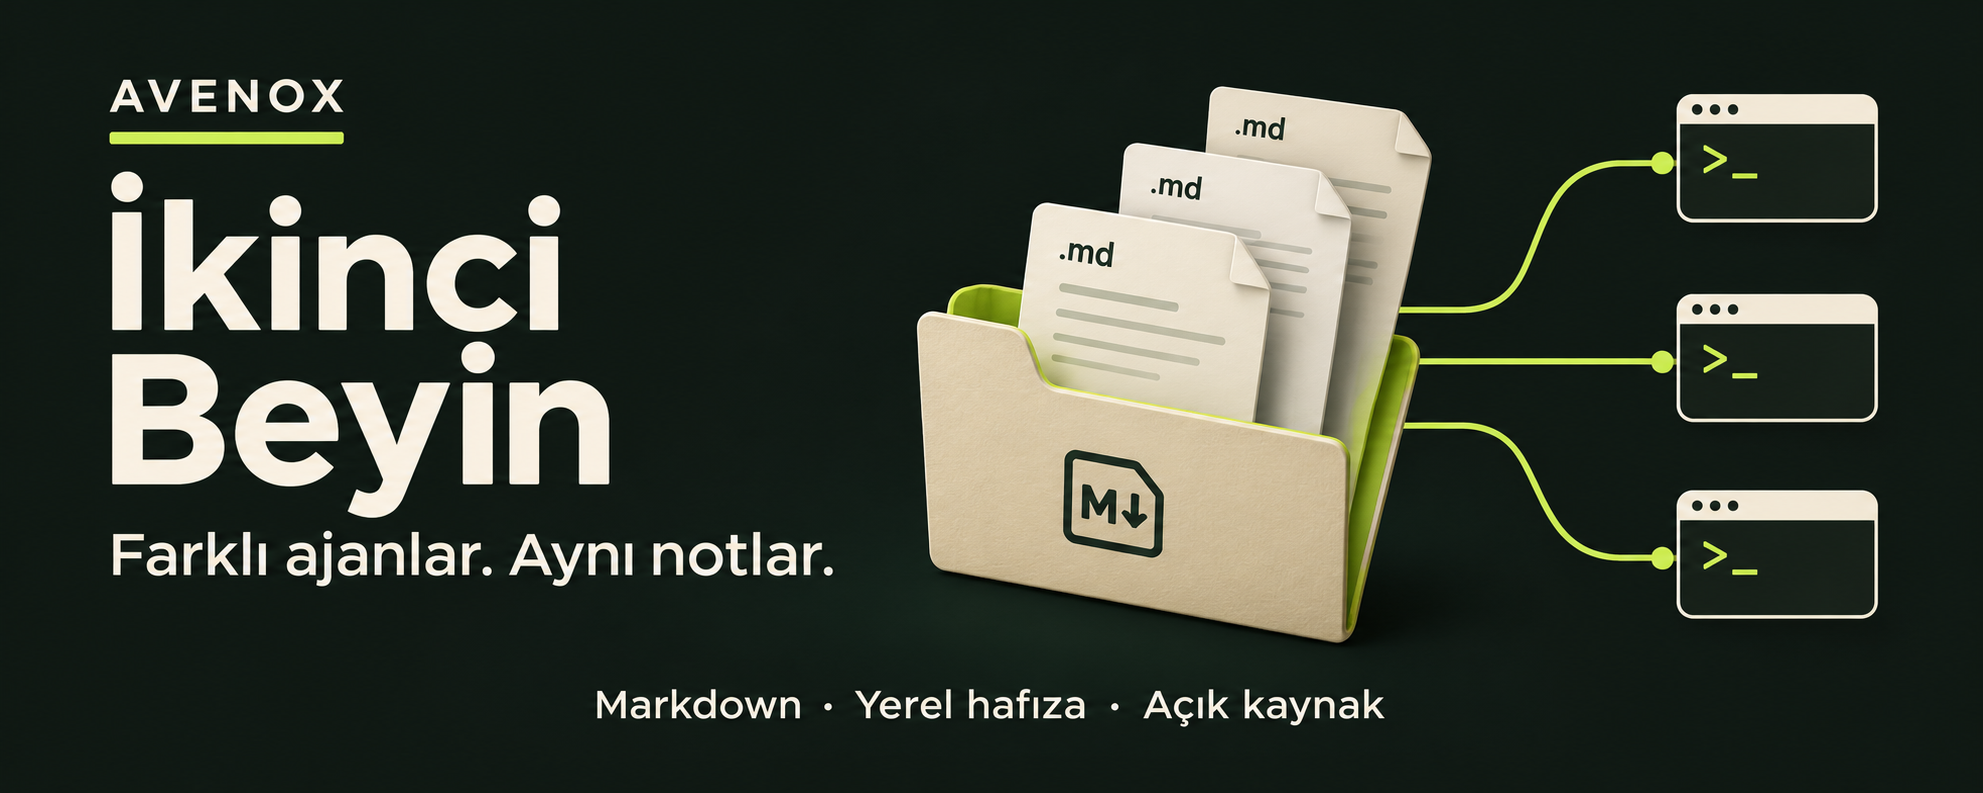
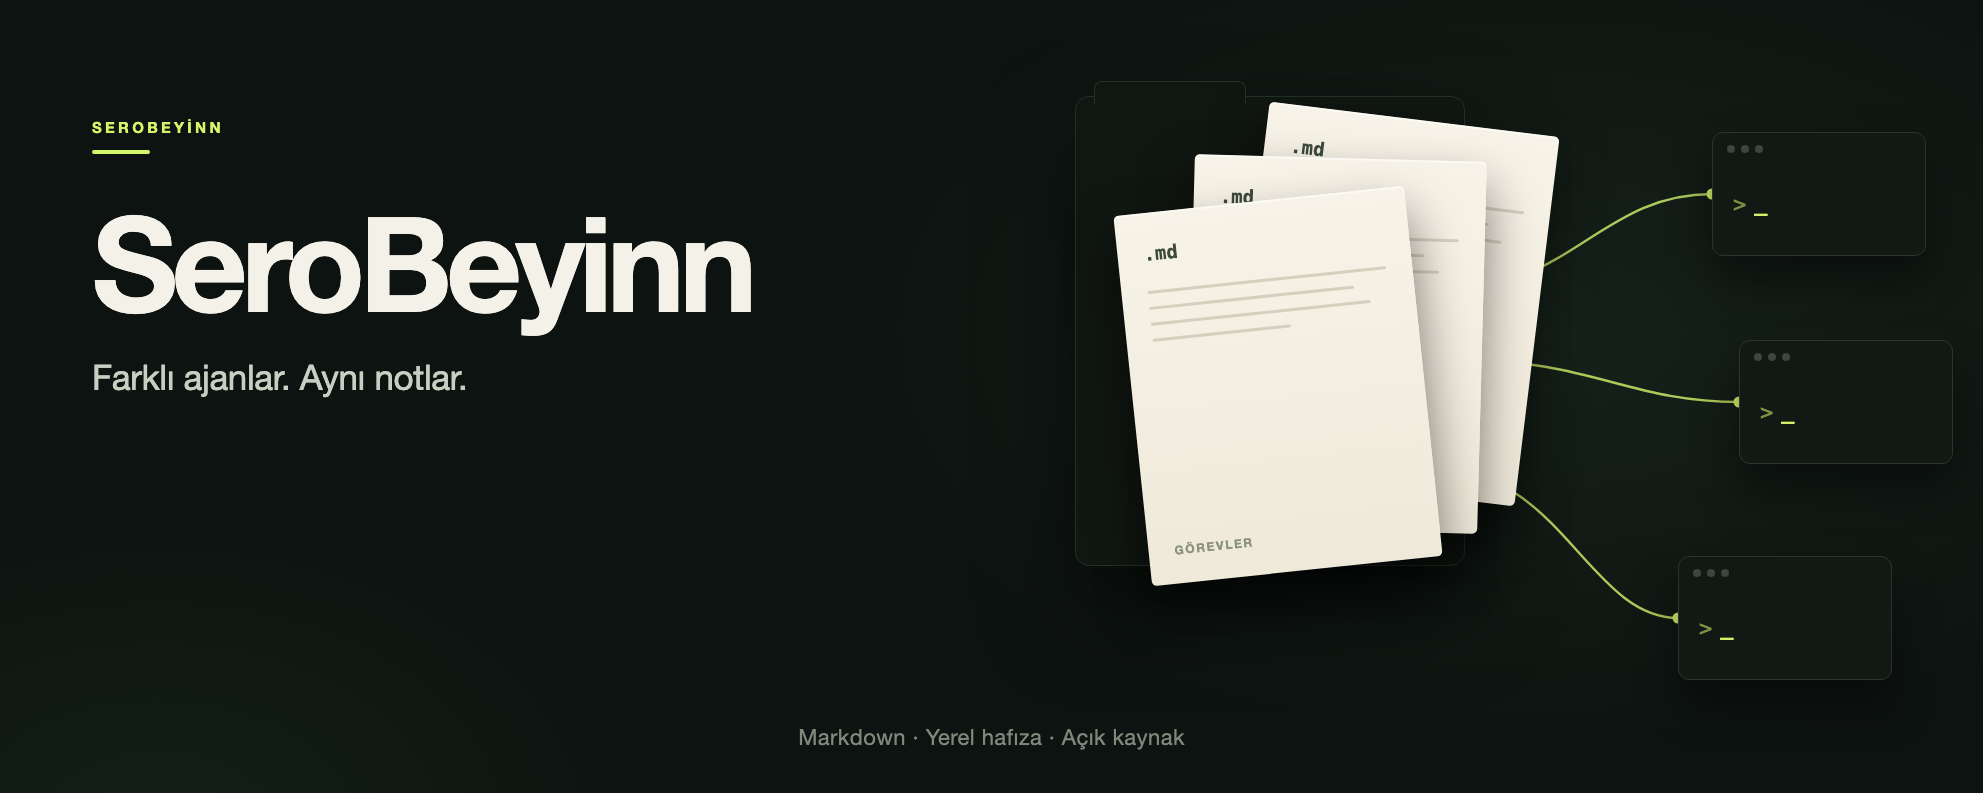
README gorselleri yenilendi: SeroBeyinn kapagi ve temsili gorevler ekrani

diff --git a/docs/assets/readme/README.md b/docs/assets/readme/README.md
@@ -2,20 +2,20 @@
 
 ## cover.png
 
-SeroBeyinn için özel üretilmiş kavramsal kapak. Gerçek ürün ekranı değildir.
-OpenAI imagegen aracıyla 12 Kasım 2026'da üretildi; orijinal PNG kullanıldı.
+SeroBeyinn için üretilmiş kavramsal kapak. Gerçek ürün ekranı değildir.
+22 Kasım 2026'da HTML/CSS olarak tasarlanıp headless Chrome 158 ile
+1983 × 793 piksel PNG olarak alındı. Marka satırı, başlık ve alt satır
+doğrudan CSS metnidir; görselde ayrıca düzenlenmiş bir katman yoktur.
 
-Üretim prompt'u [cover-prompt.txt](cover-prompt.txt) içinde tutulur. Kapak sürüm
+Tasarım tarifi [cover-prompt.txt](cover-prompt.txt) içinde tutulur. Kapak sürüm
 numarası veya test sonucu içermez; sürüm güncellenince yeniden üretilmesi gerekmez.
 
 ## web-tasks.png
 
-V3.13.0'ın gerçek yerel web arayüzünün Görevler ekranı. README için oluşturulan
-örnek bir vault, beş not, sekiz görev ve beş iş sonucu kullanıldı. Kişisel veri yoktur.
+SeroBeyinn Web arayüzünün Görevler ekranını temsil eden 1660 × 850 görsel.
+Örnek verilerle düzenlenmiş temsili bir tasarımdır; çalışan uygulamadan alınmış
+gerçek ekran görüntüsü değildir. Kişisel veri yoktur.
 
-Paket kurulduktan sonra kayıtlar kurulu `note-create`, `task-create` ve `receipt`
-komutlarıyla oluşturuldu. `web ac --read-only --no-browser` ile açılan arayüz yeni
-bir headless Chromium oturumunda 1660 × 850 boyutunda görüntülendi. Ürün HTML/CSS'i
-ve ekran görüntüsü değiştirilmedi. Çekim sonunda yerel sunucu kapatıldı.
-
-Bu görsel otomatik ajan/hook teslimini kanıtlamaz; örnek verilerle arayüzü gösterir.
+Gerçek ekran görüntüsü gerektiğinde paket kurulduktan sonra `web ac --read-only
+--no-browser` ile açılan arayüz yeni bir headless Chromium oturumunda görüntülenir.
+Bu görsel otomatik ajan/hook teslimini kanıtlamaz.
